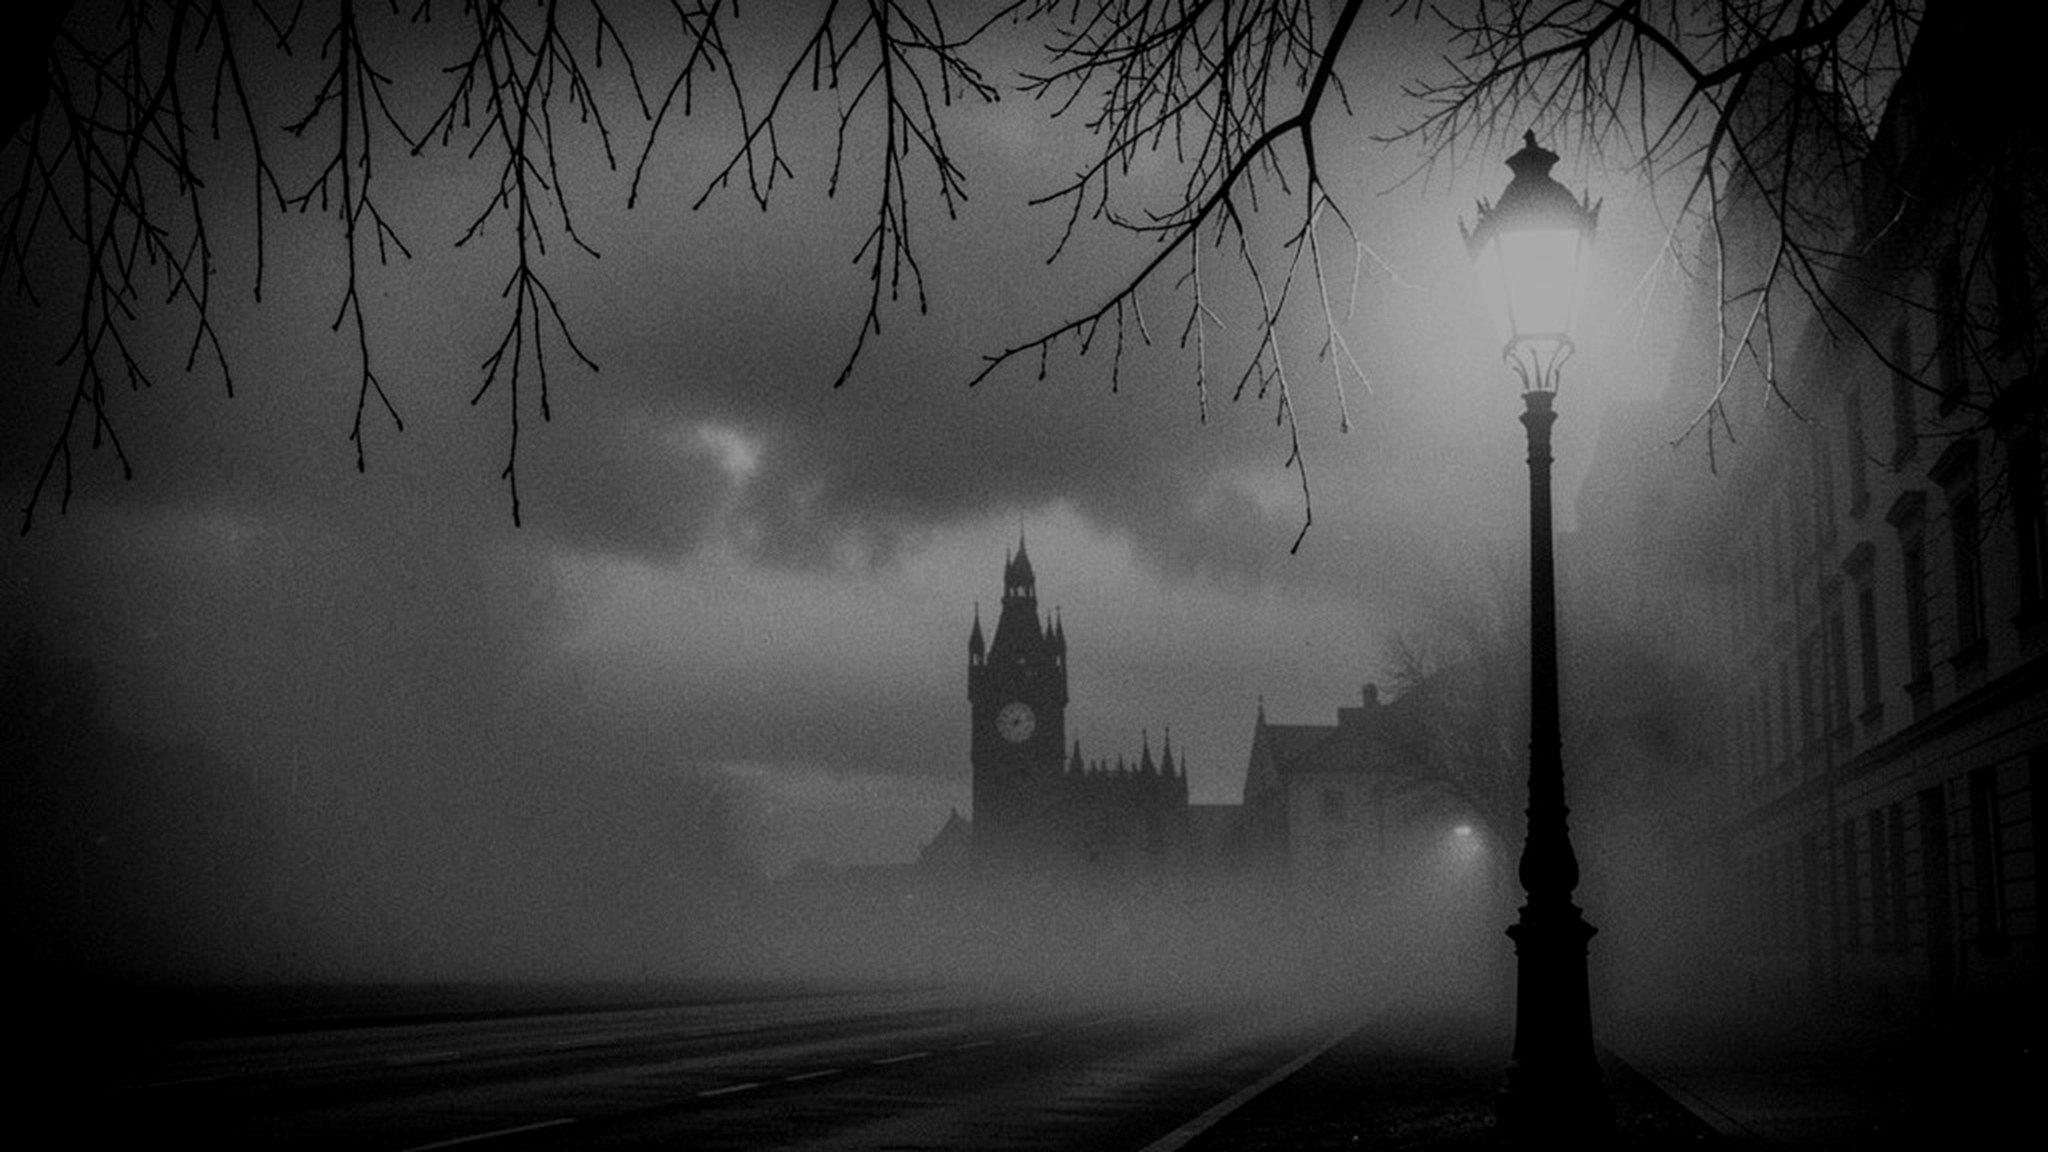
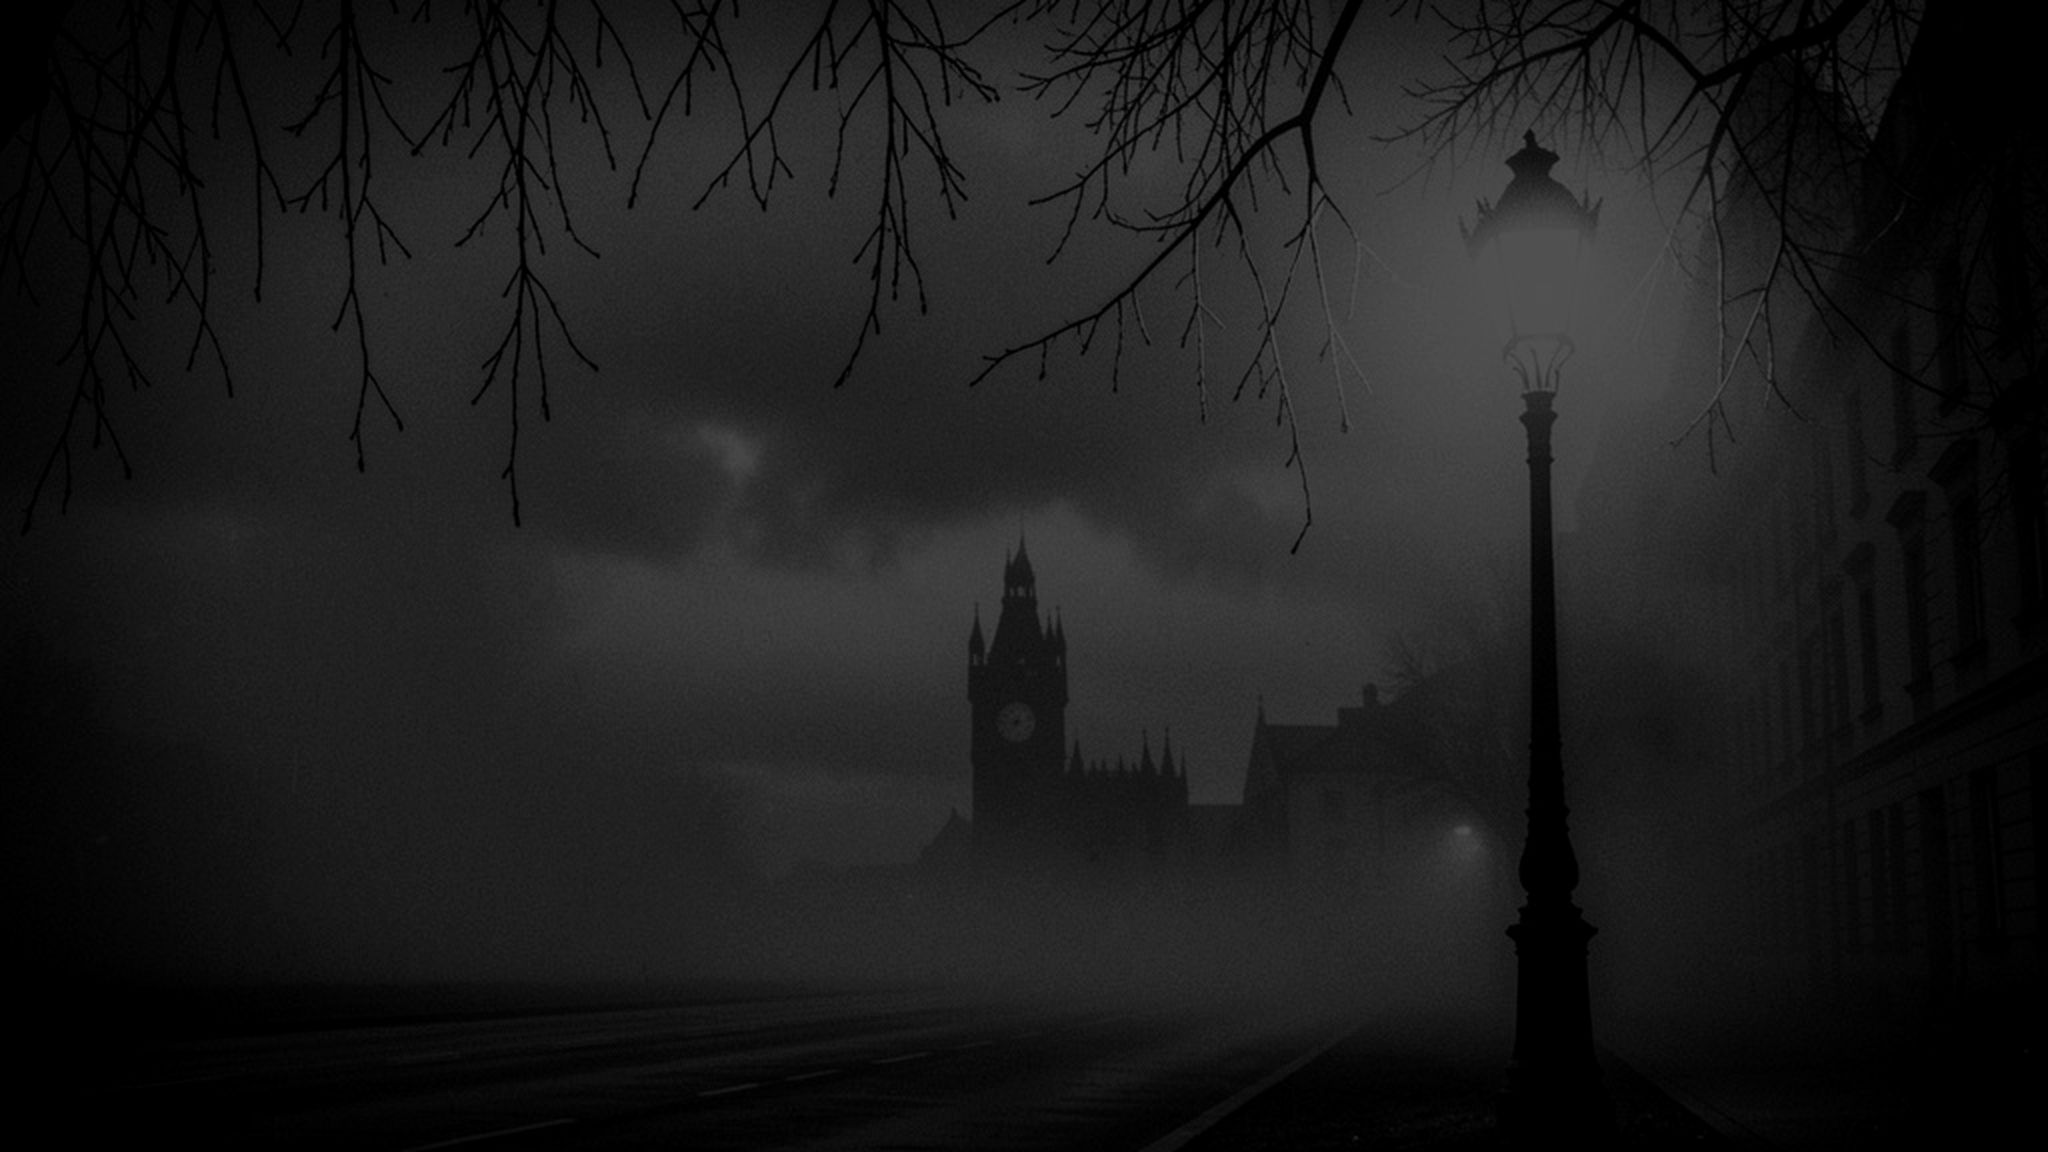
Very black blurred background like guns.lol; remove the dark panel behind text, words carry a soft shadow instead

diff --git a/index.html b/index.html
@@ -2,7 +2,7 @@
 <html lang="en">
 <head>
 <meta charset="utf-8">
-<meta name="viewport" content="width=device-width, initial-scale=1">
+<meta name="viewport" content="width=device-width, initial-scale=1, maximum-scale=1, user-scalable=no, viewport-fit=cover">
 <meta name="referrer" content="strict-origin-when-cross-origin">
 <meta name="theme-color" content="#000000">
 <title>Blackveil · Story</title>
@@ -227,7 +227,8 @@
           .bar nav button{letter-spacing:.13em;white-space:nowrap;flex:0 0 auto}
 
           /* dock — seek bar gets its own full-width row, fat touch target */
-          .dock .col{height:auto;padding-block:11px;gap:10px;flex-wrap:wrap}
+          .dock .col{height:auto;gap:10px;flex-wrap:wrap;
+            padding-top:11px;padding-bottom:calc(11px + env(safe-area-inset-bottom,0px))}
           .disc{width:30px;height:30px}
           .now b{max-width:44vw}
           .now i{max-width:44vw}
@@ -383,7 +384,8 @@
 
   /* giant watermark behind the hero */
   .hero-mark{
-    position:absolute;inset:0;z-index:-1;display:grid;place-items:center;
+    position:absolute;inset:0;width:100%;max-width:100%;overflow:hidden;
+    z-index:-1;display:grid;place-items:center;
     font-family:var(--serif);font-size:clamp(9rem,26vw,22rem);line-height:1;
     letter-spacing:-.05em;color:rgba(233,237,241,.04);white-space:nowrap;
     pointer-events:none;user-select:none;opacity:0;transition:opacity 1.6s ease .3s;
@@ -491,7 +493,7 @@
   /* ============ photographic horror background ============ */
   .bgphoto{position:fixed;inset:0;z-index:0;pointer-events:none;overflow:hidden;background:#000}
   .bgphoto i{position:absolute;inset:-8%;display:block;
-      background:url("bg-horror-dark.jpg") center 56%/cover no-repeat;
+      background:url("bg-horror-blur.jpg") center 56%/cover no-repeat;
       opacity:.96;will-change:transform;
       animation:bgdrift 52s ease-in-out infinite alternate}
   @keyframes bgdrift{
@@ -506,7 +508,7 @@
           /* phones get the tall version of the picture, so far less of it is cropped away */
           @media (max-width:760px){
             .bgphoto i{
-                  background-image:url("bg-horror-portrait-dark.jpg");
+                  background-image:url("bg-horror-blur-portrait.jpg");
                   background-position:center 42%;
                   opacity:1;
                 }
@@ -627,18 +629,17 @@
         .lbl,.kicker{color:#98a0a9}
         .foot-lead{color:#a7aeb6}
 
-        /* soft frosted scrim so the photo's grain stops competing with the words
-           (fades out at the edges — no visible box) */
+        /* the dark panel that used to sit behind the words is gone —
+           the words now sit straight on the photograph */
         .sec .body{position:relative}
-        .sec .body::before{
-          content:"";position:absolute;inset:-34px -38px;z-index:-1;border-radius:30px;
-          background:rgba(0,0,0,.46);
-          -webkit-backdrop-filter:blur(18px) saturate(115%);
-          backdrop-filter:blur(18px) saturate(115%);
-          -webkit-mask-image:radial-gradient(125% 105% at 38% 50%, #000 40%, transparent 86%);
-          mask-image:radial-gradient(125% 105% at 38% 50%, #000 40%, transparent 86%);
-          pointer-events:none;
-        }
+
+        /* no panel, so the words carry their own soft shadow instead */
+        .sec .body, .sec .lbl, footer .col, .foot-lead,
+        .hero .col, .hero .facts, .bar .col{
+          text-shadow:0 1px 3px rgba(0,0,0,.82), 0 0 22px rgba(0,0,0,.6)}
+        .ql li{color:#f3f7fb}
+        .lbl,.kicker{color:#bcc4cc}
+        .facts span{color:#c2cad2}
 
         /* ============ one layout for every screen ============ */
           /* a single centred column — desktop and phone now look the same,
@@ -701,25 +702,26 @@
 
                                 /* type that scales with the screen — a small phone gets smaller
                                    text, so nothing has to be zoomed out to fit */
-                                body{font-size:clamp(13.5px,4.6vw,16.4px)}
-                                .name{font-size:clamp(30px,11.5vw,45px);line-height:.95}
-                                .tag{font-size:clamp(13px,4.25vw,18px)}
-                                .ql li{font-size:clamp(15px,5.15vw,21px);line-height:1.42;padding:17px 0}
-                                .lead{font-size:clamp(13px,3.95vw,16.8px)}
-                                .story h3{font-size:clamp(14px,4.5vw,18.6px)}
-                                .story p{font-size:clamp(13.5px,4vw,17px);line-height:1.78}
-                                .tr .t{font-size:clamp(13.5px,4vw,16.8px)}
-                                #closingLine{font-size:clamp(13.5px,4.2vw,17.6px)}
-                                .foot-lead{font-size:clamp(13.5px,4vw,16.8px)}
+                                body{font-size:clamp(13px,4.35vw,15.6px)}
+                                .name{font-size:clamp(28px,10.9vw,42px);line-height:.95}
+                                .tag{font-size:clamp(12.2px,4vw,16.6px)}
+                                .ql li{font-size:clamp(14.2px,4.9vw,19.4px);line-height:1.4;padding:15px 0}
+                                .lead{font-size:clamp(12.2px,3.7vw,15.6px)}
+                                .story h3{font-size:clamp(13.2px,4.2vw,17.2px)}
+                                .story p{font-size:clamp(13px,3.75vw,15.8px);line-height:1.74}
+                                .tr .t{font-size:clamp(13px,3.75vw,15.6px)}
+                                #closingLine{font-size:clamp(13px,3.95vw,16.4px)}
+                                .foot-lead{font-size:clamp(13px,3.75vw,15.6px)}
 
                                 /* tighter vertical rhythm — no loose, saggy feel */
-                                .sec{padding:38px 0}
-                                .hero{padding:44px 0 28px}
-                                .story{gap:24px}
+                                .sec{padding:34px 0}
+                                .hero{padding:40px 0 26px}
+                                .story{gap:22px}
                                 .ql li:first-child{padding-top:0}
 
                       /* top bar: name + clock on one row, the menu on its own row below */
-                      .bar .col{height:auto;flex-wrap:wrap;padding-block:9px;gap:8px 12px}
+                      .bar .col{height:auto;flex-wrap:wrap;gap:8px 12px;
+                      padding-top:calc(9px + env(safe-area-inset-top,0px));padding-bottom:9px}
                       .bar .mark{order:1;font-size:1rem}
                       .clock{order:2;margin-left:auto;gap:7px}
                       .clock .dial{width:24px;height:24px}

diff --git a/sw.js b/sw.js
@@ -3,7 +3,7 @@
    time they are used, so the site keeps working without internet.
    Bump CACHE when you change index.html so phones pick up the new version. */
 
-const CACHE = 'blackveil-v11';
+const CACHE = 'blackveil-v12';
 
 const CORE = [
   './',
@@ -15,8 +15,8 @@ const CORE = [
   './icon-512.png',
   './favicon-32.png',
   './maskable-512.png',
-  './bg-horror-dark.jpg',
-  './bg-horror-portrait-dark.jpg',
+  './bg-horror-blur.jpg',
+  './bg-horror-blur-portrait.jpg',
   './blackveil-logo.jpg'
 ];
 
